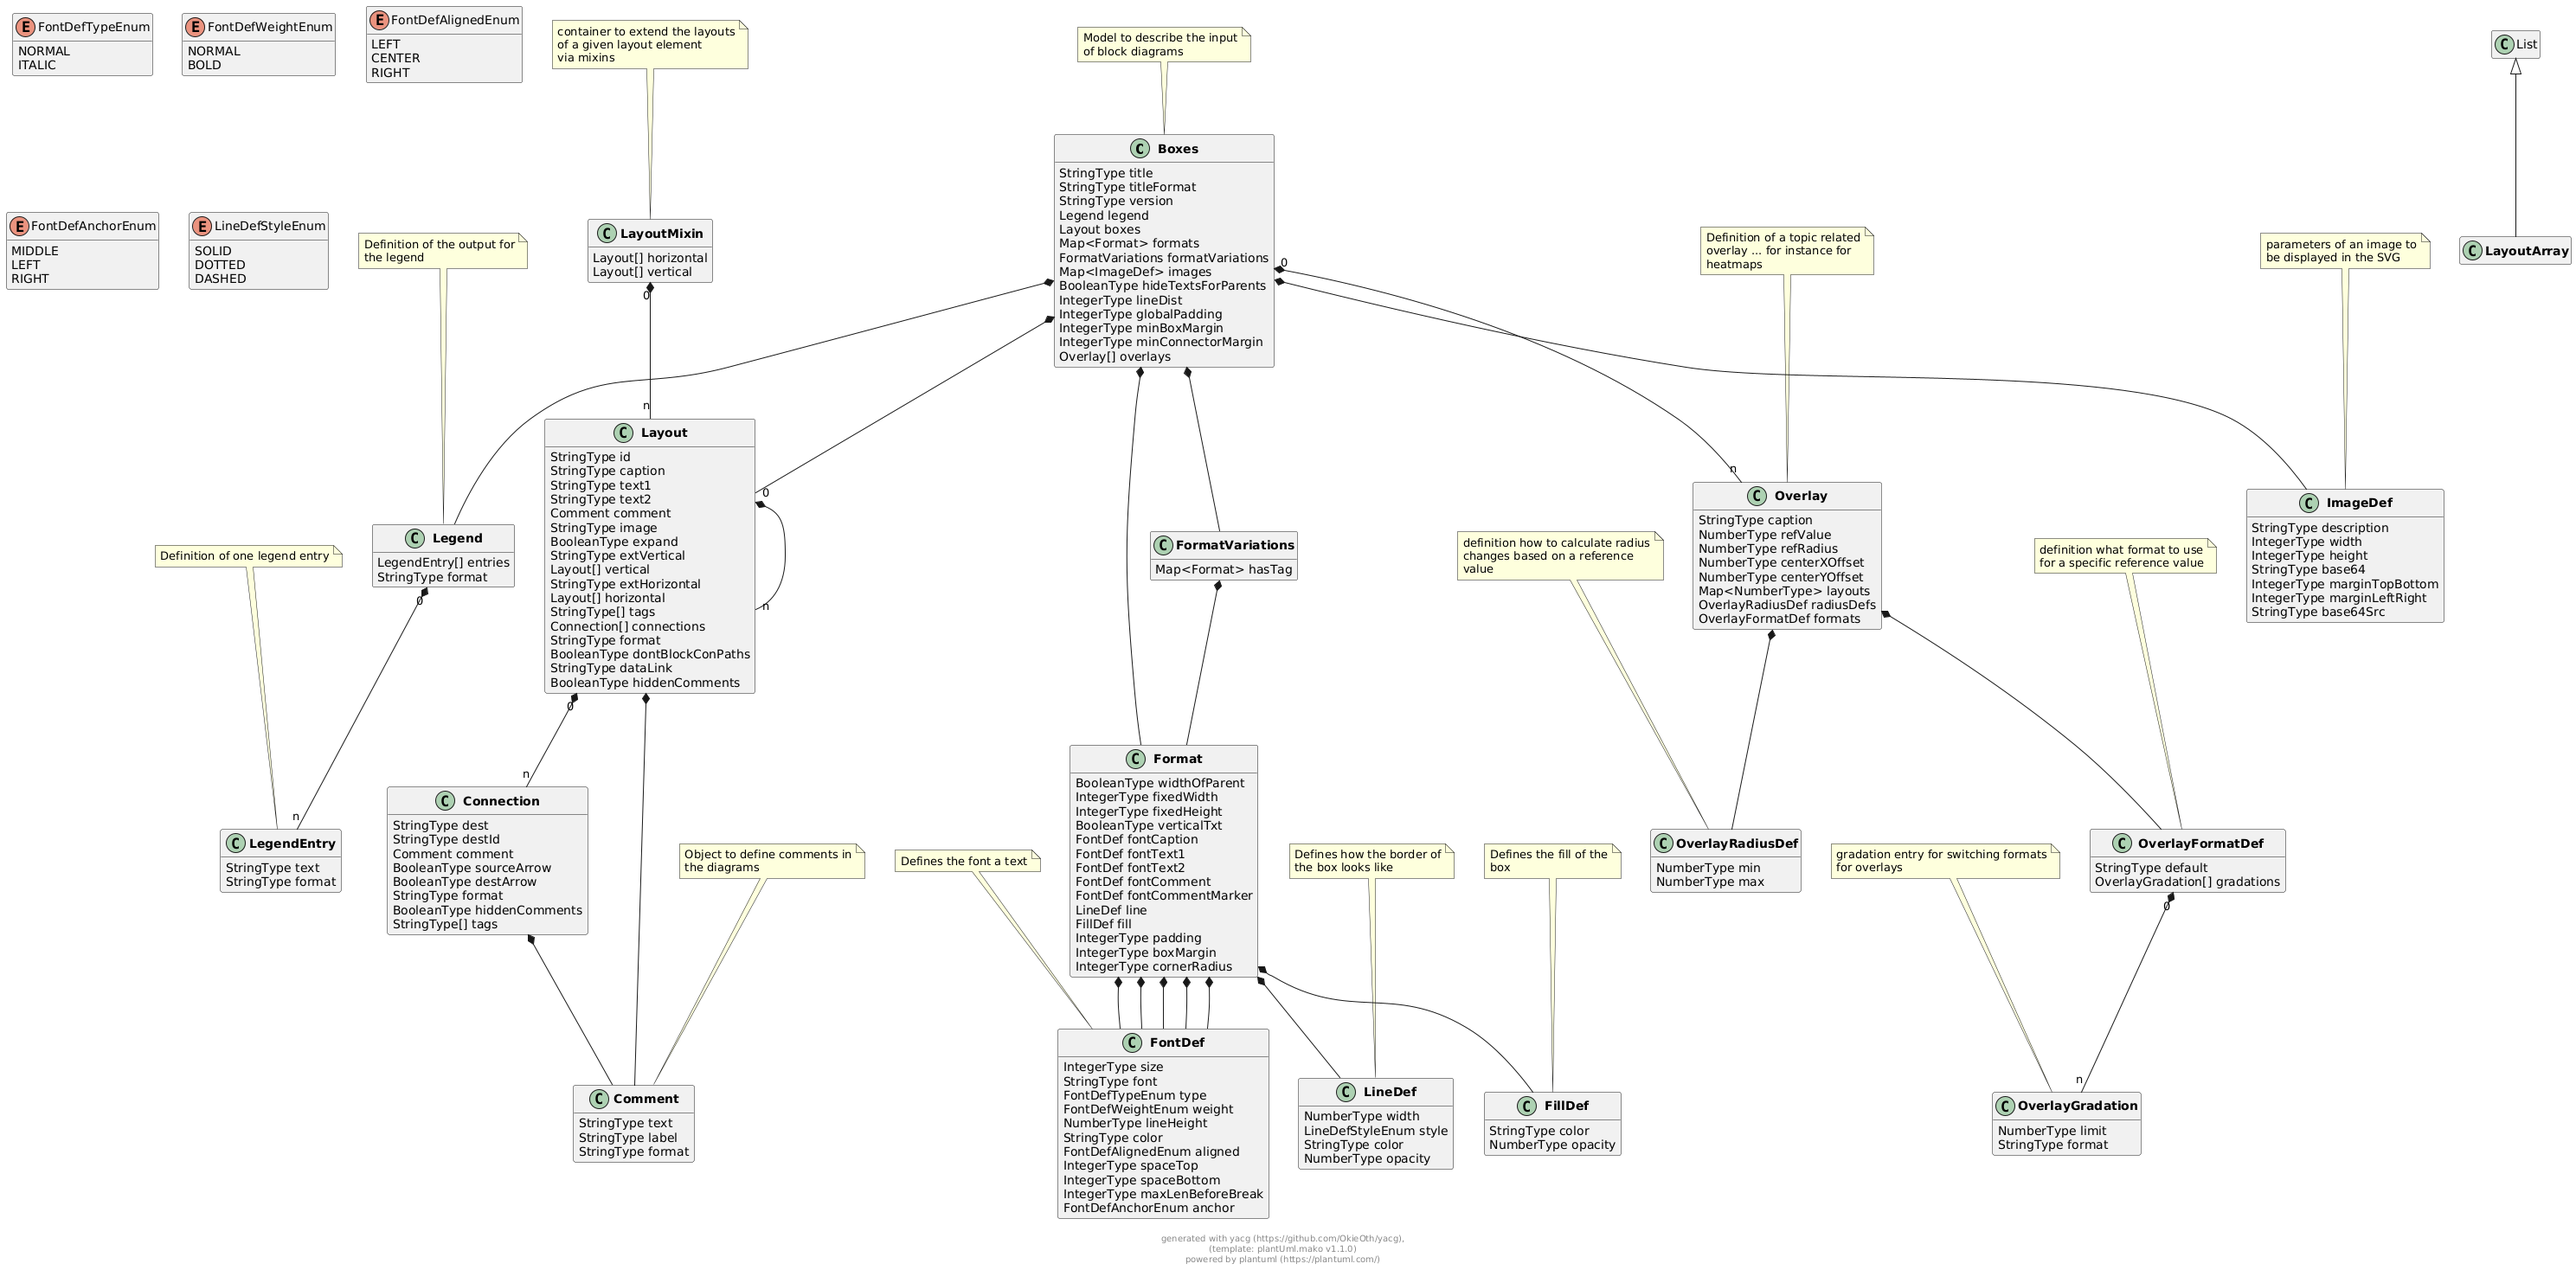
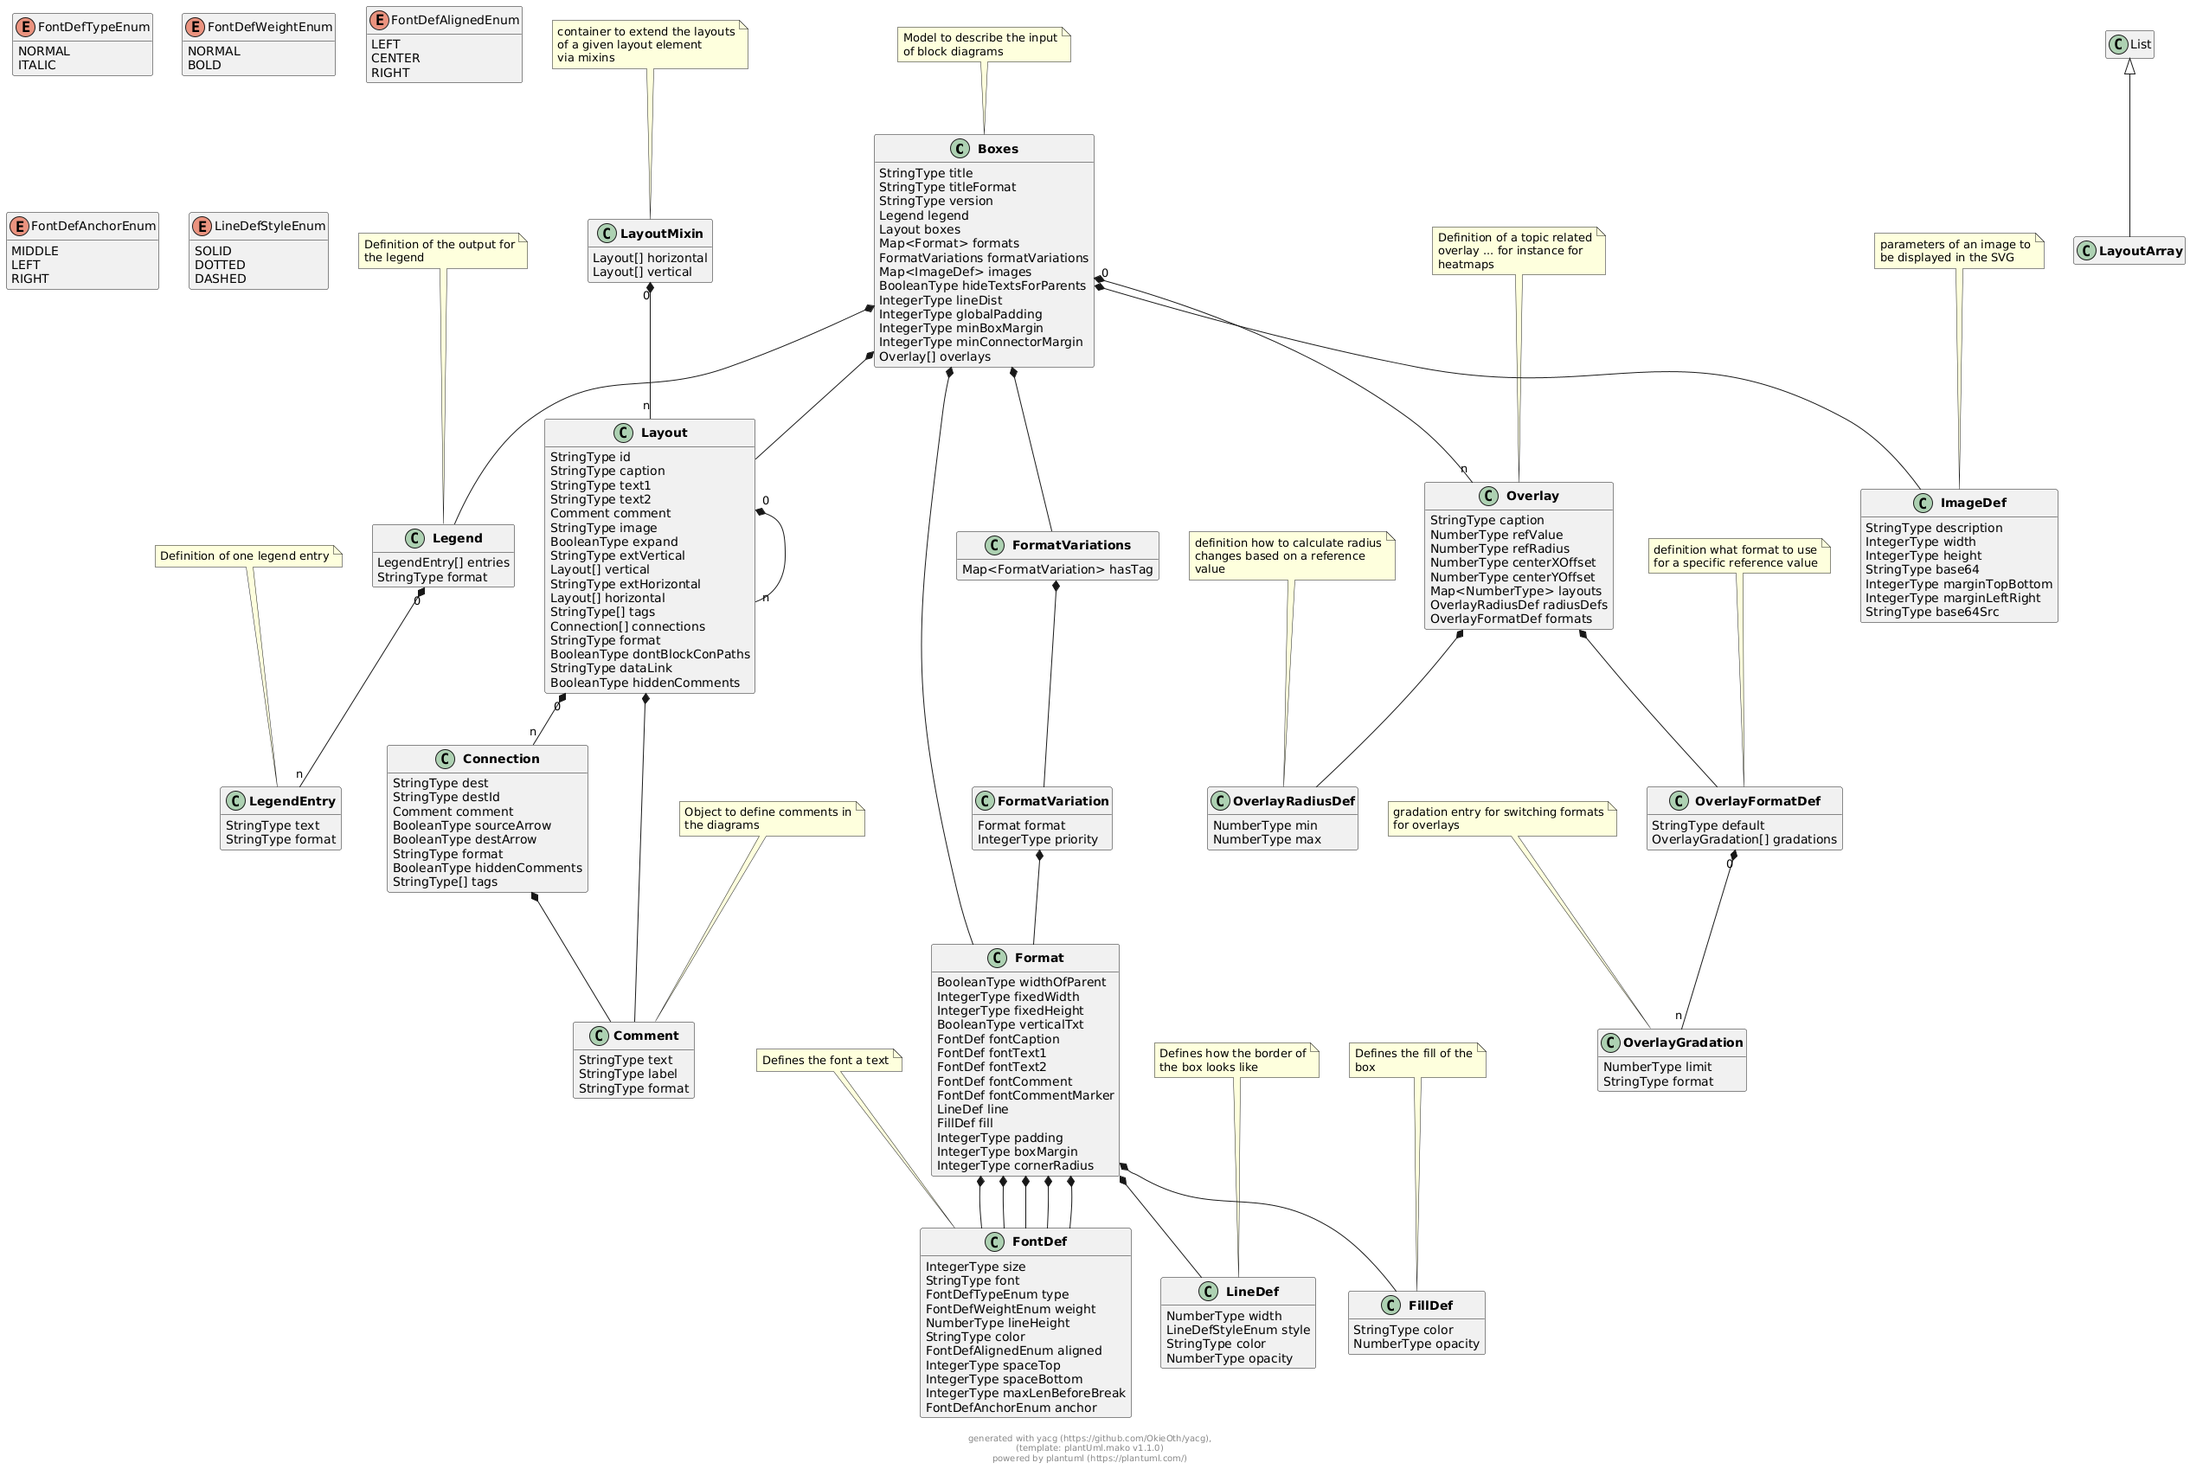
add dynamic formats of layouts based on tags

diff --git a/pkg/boxesimpl/boxesimpl.go b/pkg/boxesimpl/boxesimpl.go
@@ -192,6 +192,32 @@ func copyTruncatedComments(layout *boxes.Layout, truncatedObjects map[string]Tru
 	}
 }
 
+func copyTruncatedTags(layout *boxes.Layout, truncatedObjects map[string]TruncatedInfo) {
+	// find comments from truncated objects to the annotate current object
+	for _, v := range truncatedObjects {
+		if v.newId == layout.Id {
+			if layout.Caption == "TMS-Analytics" {
+				fmt.Println("DEBUG-1: layout.caption:", layout.Caption, "id:", layout.Id)
+			}
+			if len(v.truncated.Tags) > 0 {
+				for i := range v.truncated.Tags {
+					tag := v.truncated.Tags[i]
+					if layout.Caption == "TMS-Analytics" {
+						fmt.Println("DEBUG-2: tag:", tag)
+					}
+					if !slices.Contains(layout.Tags, tag) {
+						fmt.Println("DEBUG-3: copy tag: layout.id:", layout.Id, "tag:", tag)
+						layout.Tags = append(layout.Tags, tag)
+					}
+					if layout.Caption == "TMS-Analytics" {
+						fmt.Println("DEBUG-4: layout.tags:", layout.Tags)
+					}
+				}
+			}
+		}
+	}
+}
+
 func copyTruncatedConnections(layout *boxes.Layout, truncatedObjects map[string]TruncatedInfo) {
 	// copy all needed connections from truncated objects to the current object
 	for _, v := range truncatedObjects {
@@ -240,6 +266,7 @@ func adjustDestIdInRespectOfTruncated(layout *boxes.Layout, truncatedObjects map
 func adjustTruncated(layout *boxes.Layout, truncatedObjects map[string]TruncatedInfo) {
 	copyTruncatedConnections(layout, truncatedObjects)
 	copyTruncatedComments(layout, truncatedObjects)
+	copyTruncatedTags(layout, truncatedObjects)
 	adjustDestIdInRespectOfTruncated(layout, truncatedObjects)
 	if len(layout.Horizontal) > 0 {
 		adjustTruncatedForCont(&layout.Horizontal, truncatedObjects)

diff --git a/pkg/types/boxes/boxes.go b/pkg/types/boxes/boxes.go
@@ -310,12 +310,12 @@ func CopyFormat(src *Format) *Format {
 type FormatVariations struct {
 
     // dictionary with tag values as key, that contains format definitions.
-    HasTag map[string]Format  `yaml:"hasTag,omitempty"`
+    HasTag map[string]FormatVariation  `yaml:"hasTag,omitempty"`
 }
 
 func NewFormatVariations() *FormatVariations {
     return &FormatVariations{
-        HasTag: make(map[string]Format, 0),
+        HasTag: make(map[string]FormatVariation, 0),
     }
 }
 
@@ -324,7 +324,7 @@ func CopyFormatVariations(src *FormatVariations) *FormatVariations {
         return nil
     }
     var ret FormatVariations
-    ret.HasTag = make(map[string]Format, 0)
+    ret.HasTag = make(map[string]FormatVariation, 0)
     for k, v := range src.HasTag {
         ret.HasTag[k] = v
     }
@@ -519,6 +519,30 @@ func CopyLayoutMixin(src *LayoutMixin) *LayoutMixin {
 
 
 
+
+
+
+
+
+type FormatVariation struct {
+
+    Format Format  `yaml:"format"`
+
+    // number to define the order if a layout has for instance multiple matching tags
+    Priority int  `yaml:"priority"`
+}
+
+
+func CopyFormatVariation(src *FormatVariation) *FormatVariation {
+    if src == nil {
+        return nil
+    }
+    var ret FormatVariation
+    ret.Format = *CopyFormat(&src.Format)
+    ret.Priority = src.Priority
+
+    return &ret
+}
 
 
 

diff --git a/pkg/types/boxes/external_helper.go b/pkg/types/boxes/external_helper.go
@@ -50,6 +50,22 @@ func (b *Boxes) mixInConnectionsImpl(l *Layout, additional map[string]Connection
 	b.mixInConnectionsImplCont(l.Vertical, additional)
 }
 
+func (b *Boxes) mixInTagsImplCont(cont []Layout, additional map[string]Tags) {
+	for i := range len(cont) {
+		b.mixInTagsImpl(&cont[i], additional)
+	}
+}
+
+func (b *Boxes) mixInTagsImpl(l *Layout, additional map[string]Tags) {
+	if l.Caption != "" {
+		if tags, ok := additional[l.Caption]; ok {
+			l.Tags = append(l.Tags, tags.Tags...)
+		}
+	}
+	b.mixInTagsImplCont(l.Horizontal, additional)
+	b.mixInTagsImplCont(l.Vertical, additional)
+}
+
 func (b *Boxes) mixInCommentImplCont(cont []Layout, additional map[string]types.Comment) {
 	for i := range len(cont) {
 		b.mixInCommentsImpl(&cont[i], additional)
@@ -136,6 +152,7 @@ func (b *Boxes) MixinThings(additional BoxesFileMixings) {
 	}
 	b.mixInLayoutsImpl(&b.Boxes, &additional.LayoutMixins)
 	b.mixInConnectionsImpl(&b.Boxes, additional.Connections)
+	b.mixInTagsImpl(&b.Boxes, additional.Tags)
 	b.mixInCommentsImpl(&b.Boxes, additional.Comments)
 	b.Overlays = append(b.Overlays, additional.Overlays...)
 	if len(additional.Formats) > 0 {

diff --git a/pkg/boxesimpl/boxesdocfactory.go b/pkg/boxesimpl/boxesdocfactory.go
@@ -334,12 +334,22 @@ func initLayoutElement(l *boxes.Layout, doc *boxes.BoxesDocument, b *boxes.Boxes
 func adjustFormatBasedOnVariations(l *boxes.Layout, b *boxes.Boxes, f *boxes.BoxFormat) *boxes.BoxFormat {
 	if b.FormatVariations != nil && b.FormatVariations.HasTag != nil {
 		// mix in format adjustment
+		var maxPriority *int
+		var format2Use *boxes.Format
 		for _, t := range l.Tags {
+
 			if adjustment, ok := b.FormatVariations.HasTag[t]; ok {
 				// needed adjustment found
-				newFormat := adjustBoxFormat(f, &adjustment)
-				return &newFormat
+				if maxPriority == nil || adjustment.Priority > *maxPriority {
+					maxPriority = &adjustment.Priority
+					format2Use = &adjustment.Format
+
+				}
 			}
+		}
+		if format2Use != nil {
+			newFormat := adjustBoxFormat(f, format2Use)
+			return &newFormat
 		}
 	}
 	return f

diff --git a/CHANGELOG.md b/CHANGELOG.md
@@ -1,6 +1,8 @@
 # v0.9.0
 ## Boxes
+* format adjustments based on layout tags
 * Changed the combobox in the UI to an editable version
+* enable tag mixins
 * enable layout mixins for ids
 
 # v0.8.1
